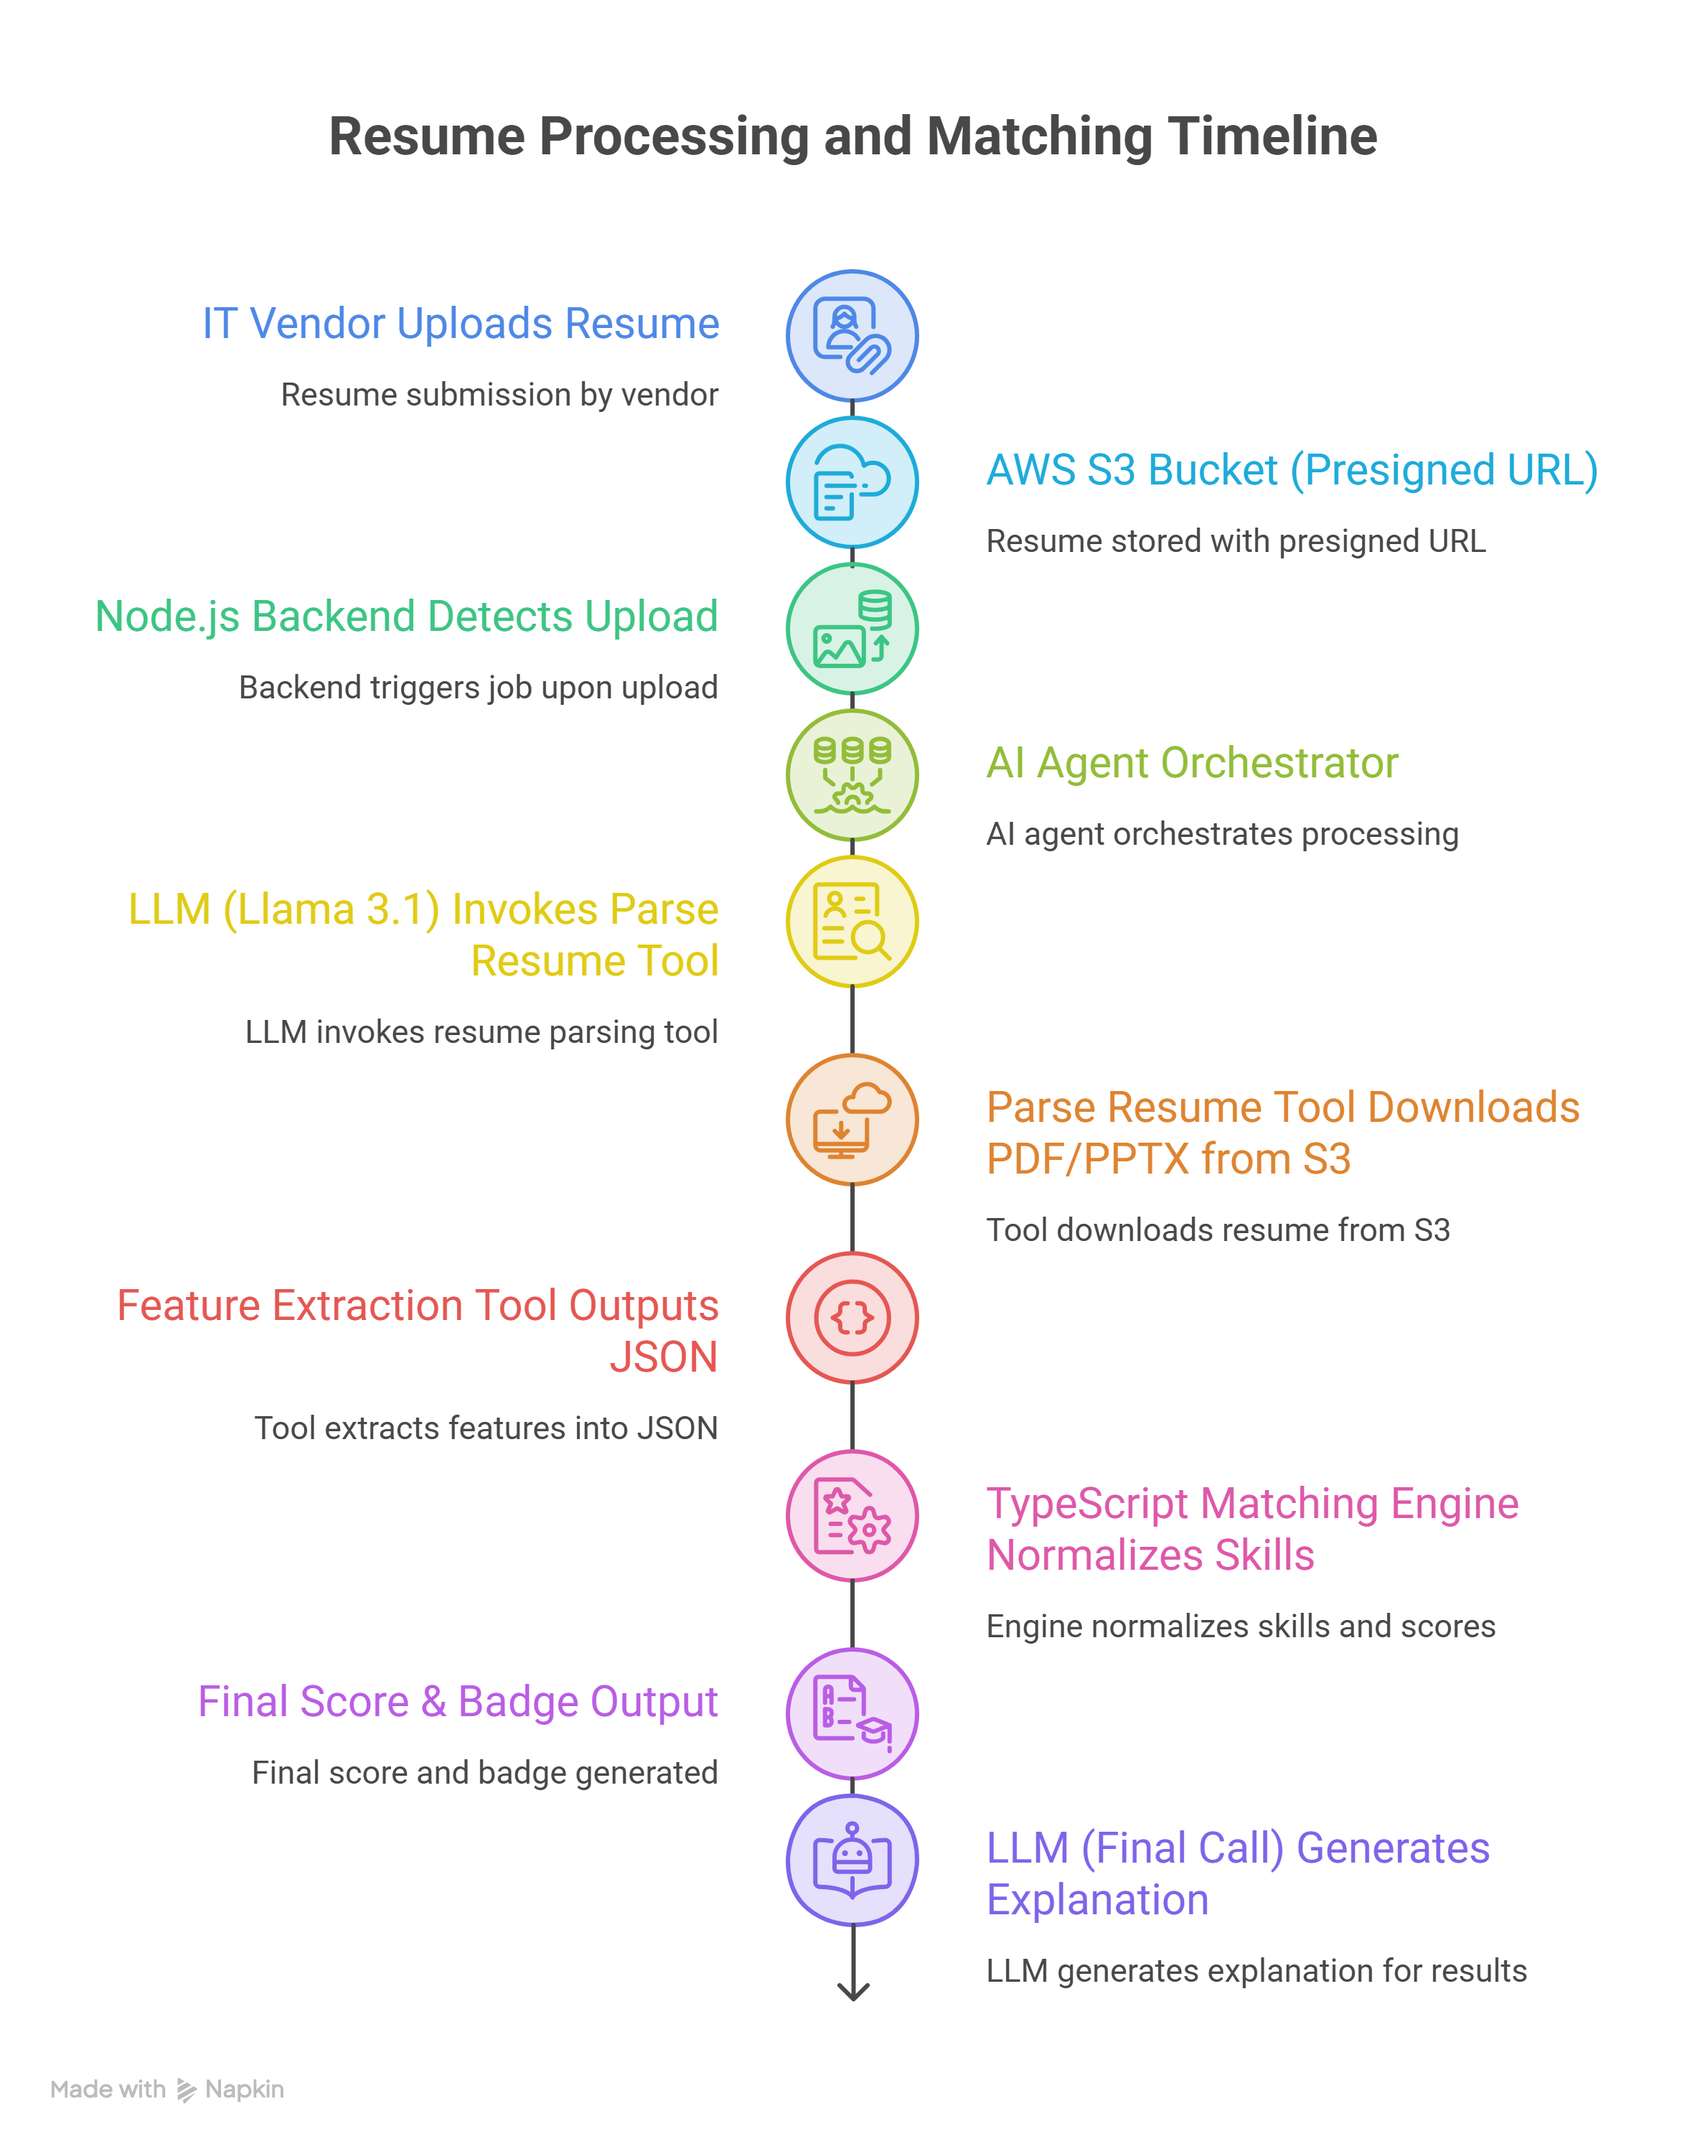
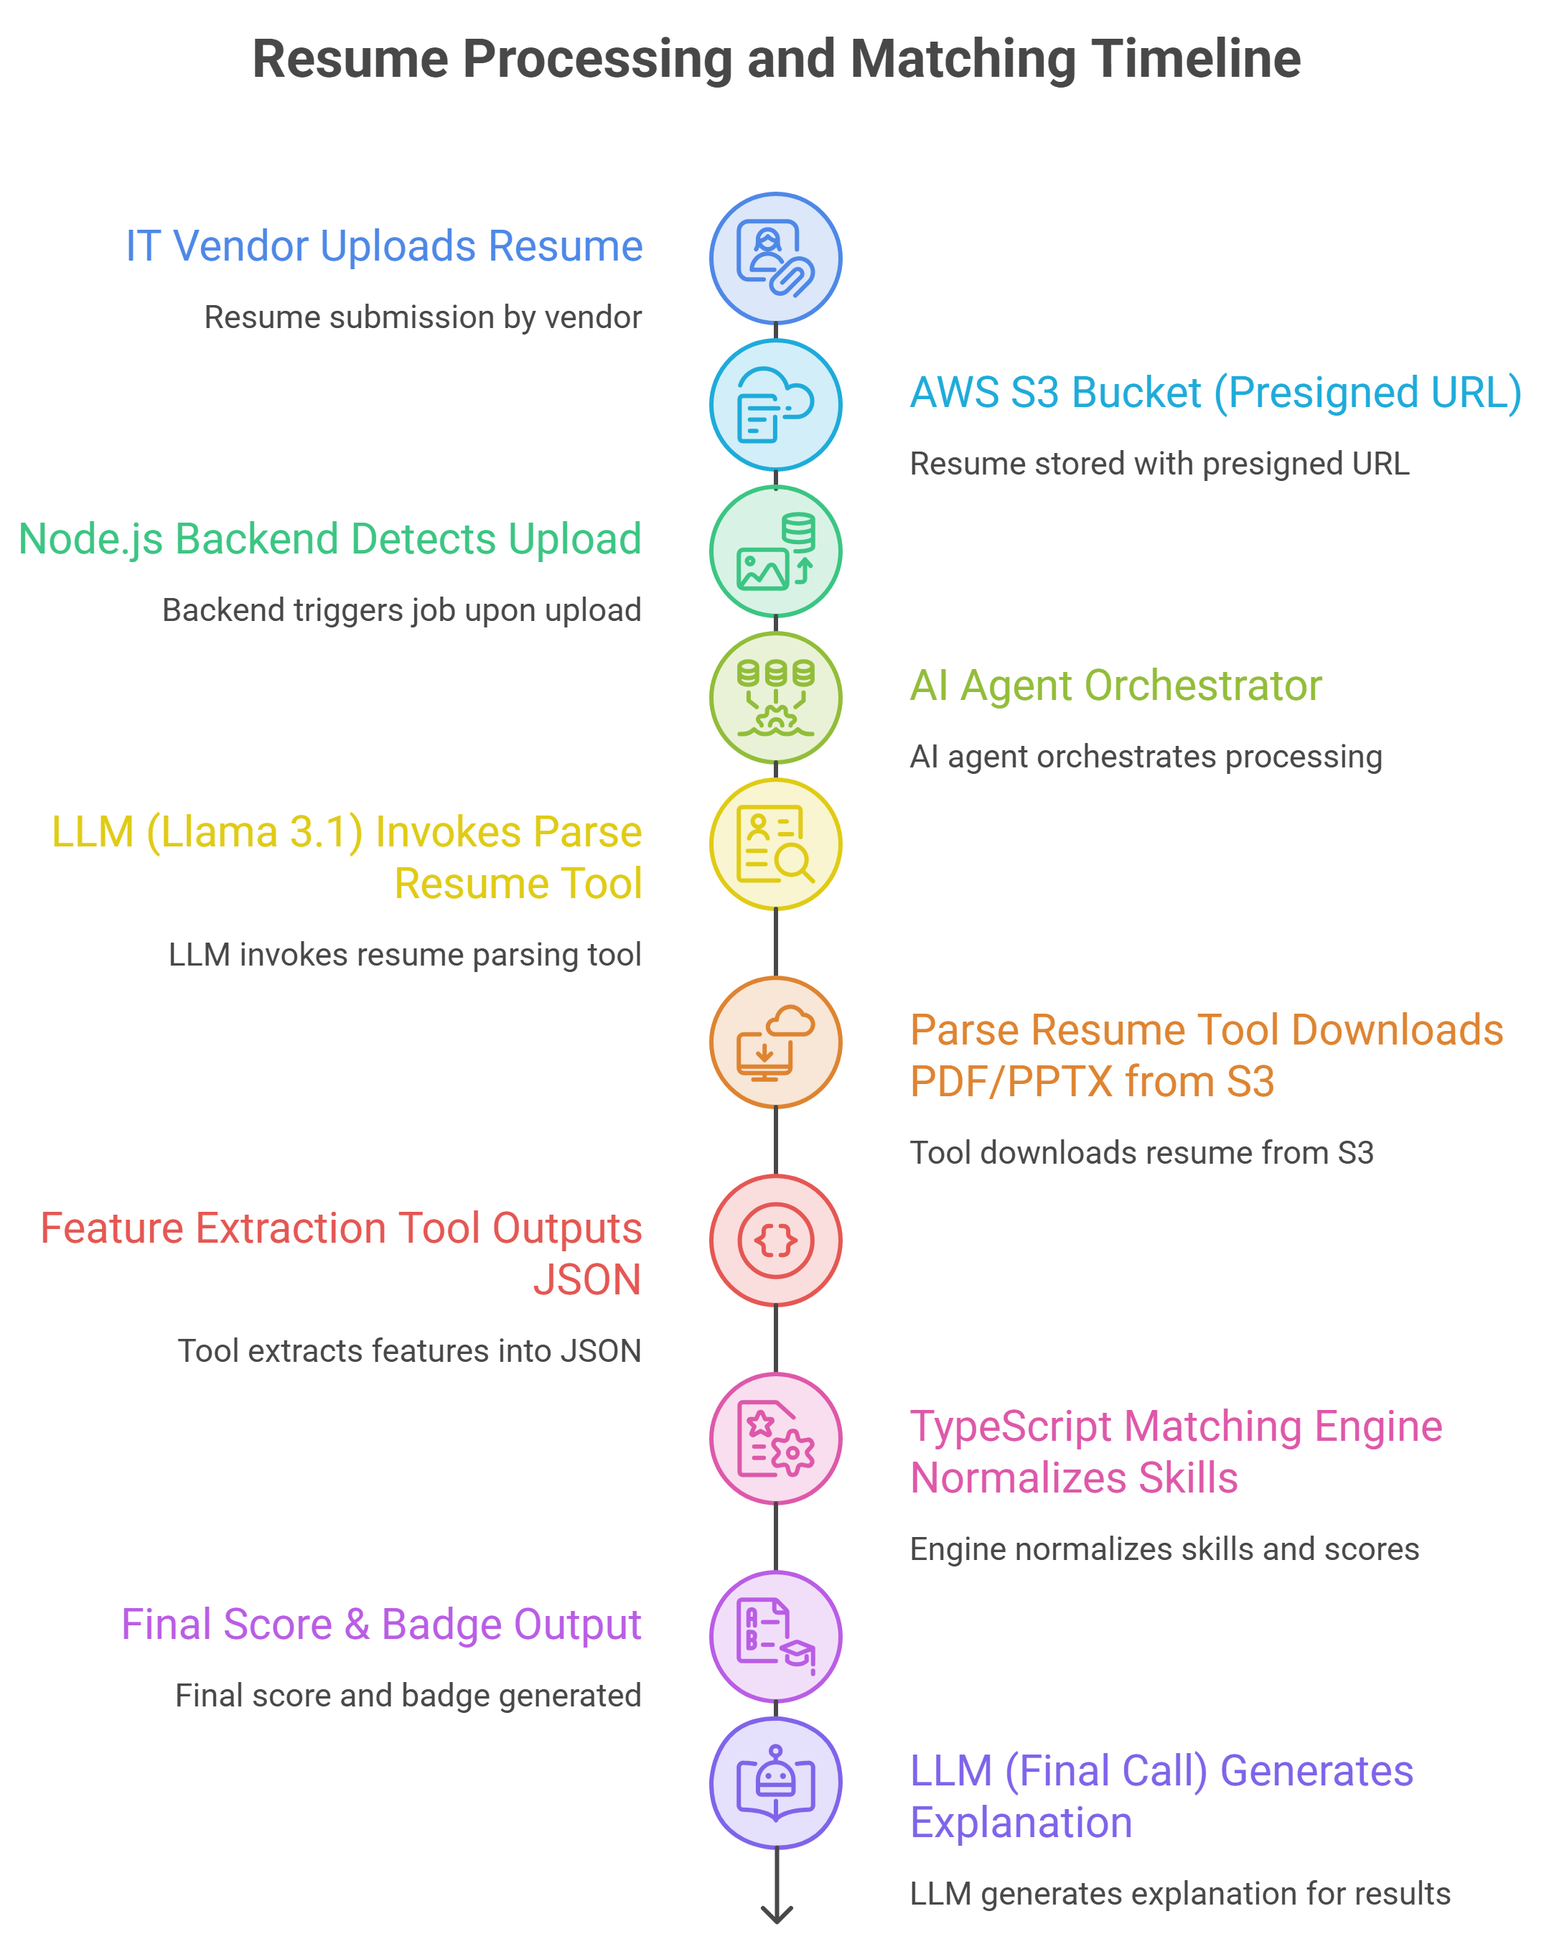
feat:updated the root readme

diff --git a/README.md b/README.md
@@ -1,4 +1,4 @@
-# Zelosify Recruit — Vendor & Hiring Manager Contract Management Module
+# Zelosify — Vendor & Hiring Manager Contract Management Module
 
 ![TypeScript](https://img.shields.io/badge/TypeScript-5.x-3178C6?style=flat&logo=typescript&logoColor=white)
 ![Node.js](https://img.shields.io/badge/Node.js-22.x-339933?style=flat&logo=nodedotjs&logoColor=white)
@@ -11,7 +11,7 @@
 ![Docker](https://img.shields.io/badge/Docker-Compose-2496ED?style=flat&logo=docker&logoColor=white)
 ![Tailwind CSS](https://img.shields.io/badge/TailwindCSS-3.x-06B6D4?style=flat&logo=tailwindcss&logoColor=white)
 ![Redux](https://img.shields.io/badge/Redux_Toolkit-2.x-764ABC?style=flat&logo=redux&logoColor=white)
-![License](https://img.shields.io/badge/License-ISC-blue?style=flat)
+
 
 A full-stack, multi-tenant recruitment platform that streamlines vendor candidate submission, AI-powered resume evaluation, and hiring manager decision workflows — all within a secure, role-based architecture.
 
@@ -25,12 +25,11 @@ A full-stack, multi-tenant recruitment platform that streamlines vendor candidat
 4. [System Architecture / Workflow](#system-architecture--workflow)
 5. [Installation & Setup](#installation--setup)
 6. [Usage](#usage)
-7. [Screenshots / Demo](#screenshots--demo)
-8. [API Integration](#api-integration)
-9. [Folder Structure](#folder-structure)
-10. [Contributing](#contributing)
-11. [License](#license)
-12. [Author / Contact](#author--contact)
+7. [API Integration](#api-integration)
+8. [Folder Structure](#folder-structure)
+9. [Contributing](#contributing)
+10. [License](#license)
+11. [Author / Contact](#author--contact)
 
 ---
 
@@ -40,7 +39,7 @@ Enterprise recruitment processes frequently suffer from fragmented tooling: vend
 
 Furthermore, implementing AI into recruitment often results in fragile "LLM Wrappers" that hallucinate scores and cannot be mathematically audited.
 
-**Zelosify Recruit** solves this by providing a unified, multi-tenant SaaS platform where:
+**Zelosify** solves this by providing a unified, multi-tenant SaaS platform where:
 - IT vendors securely submit candidate profiles (native PDF and PPTX resumes) against open job requirements via pre-signed S3 URLs.
 - A **3-Phase Agentic AI Pipeline** orchestrates LLM text extraction and maps it to a **Deterministic Scoring Engine**, ensuring candidate ranking is 100% hallucination-free and mathematically auditable.
 - Hiring managers review transparent, AI-generated reasoning, shortlist or reject profiles, and track the full hiring lifecycle.
@@ -143,12 +142,11 @@ sequenceDiagram
 ```
 
 ### End-to-end hiring workflow:
-1. **Admin** creates a job opening and assigns a hiring manager.
-2. **IT Vendor** browses open roles, uploads candidate PDFs/PPTXs to S3 via Pre-signed URLs.
-3. **Backend** queues AI recommendation jobs based on S3 object keys.
-4. **Recommendation Engine** dynamically parses resumes natively, evaluates via deterministic math, and persists reasoning.
-5. **Hiring Manager** reviews mathematically scored candidates, shortlists or rejects.
-6. All state changes are timestamped and stored for audit.
+1. **IT Vendor** browses open roles, uploads candidate PDFs/PPTXs to S3 via Pre-signed URLs.
+2. **Backend** queues AI recommendation jobs based on S3 object keys.
+3. **Recommendation Engine** dynamically parses resumes natively, evaluates via deterministic math, and persists reasoning.
+4. **Hiring Manager** reviews mathematically scored candidates, shortlists or rejects.
+
 
 ---
 
@@ -168,7 +166,7 @@ sequenceDiagram
 ### 1. Clone the Repository
 
 ```bash
-git clone https://github.com/SBK-07/Vendor-Hiring-Manager-Contract-Management-Module.git
+git clone https://github.com/AmanSingh-24/Vendor-Hiring-Manager-Contract-Management-Module.git
 cd Vendor-Hiring-Manager-Contract-Management-Module
 ```
 
@@ -190,7 +188,7 @@ cd Zelosify-Backend/Server
 npm install
 
 # Copy and configure environment variables
-cp .env.example .env
+cp .env
 
 # Run database migrations
 npm run prisma:migrate
@@ -208,9 +206,6 @@ cd Zelosify-Frontend
 
 # Install dependencies
 npm install
-
-# Copy and configure environment variables
-cp .env.example .env.local
 
 # Start development server
 npm run dev
@@ -249,17 +244,9 @@ npm start
 
 | Role | Portal Access |
 |---|---|
-| `ADMIN` | Full system administration |
 | `HIRING_MANAGER` | View openings, review/shortlist/reject profiles |
 | `IT_VENDOR` | Browse openings, upload candidate profiles |
 
----
-
-## Screenshots / Demo
-
-> Screenshots and a live demo are not yet published. Contributions and deployment links are welcome.
-
----
 
 ## API Integration
 
@@ -296,74 +283,166 @@ All API endpoints are versioned under `/api/v1/`. Authentication is enforced via
 
 ## Folder Structure
 
-```
+```text
 Vendor-Hiring-Manager-Contract-Management-Module/
 ├── Zelosify-Backend/
 │   └── Server/
+│       ├── .env
+│       ├── .gitignore
+│       ├── docker-compose.yml
+│       ├── nodemon.json
+│       ├── package-lock.json
+│       ├── package.json
+│       ├── tsconfig.json
+│       ├── vitest.config.ts
 │       ├── prisma/
-│       │   ├── schema.prisma          # Database models
-│       │   └── migrations/            # Prisma migration history
+│       │   ├── schema.prisma
+│       │   └── migrations/
 │       ├── src/
-│       │   ├── config/                # Keycloak & Environment configuration
-│       │   ├── controllers/           # Auth, Hiring, and Vendor logic
-│       │   ├── middlewares/           # JWT auth + RBAC middleware
-│       │   ├── routers/               # API route definitions
+│       │   ├── index.ts
+│       │   ├── config/
+│       │   │   ├── keycloak/
+│       │   │   │   └── index.ts
+│       │   │   └── multer/
+│       │   │       └── index.ts
+│       │   ├── controllers/
+│       │   │   ├── auth/
+│       │   │   │   ├── local/
+│       │   │   │   │   ├── localAuthController.ts
+│       │   │   │   │   ├── localLogin.ts
+│       │   │   │   │   └── localRegister.ts
+│       │   │   │   └── oidc/
+│       │   │   │       └── oidcController.ts
+│       │   │   ├── hiring/
+│       │   │   │   └── index.ts
+│       │   │   ├── vendor/
+│       │   │   │   └── index.ts
+│       │   │   └── controllers.ts
+│       │   ├── middlewares/
+│       │   │   └── auth/
+│       │   │       └── index.ts
+│       │   ├── routers/
+│       │   │   ├── auth/
+│       │   │   │   └── index.ts
+│       │   │   ├── aws/
+│       │   │   │   └── index.ts
+│       │   │   ├── hiring/
+│       │   │   │   └── index.ts
+│       │   │   ├── public/
+│       │   │   │   └── index.ts
+│       │   │   └── vendor/
+│       │   │       └── index.ts
 │       │   ├── services/
-│       │   │   ├── ai/                # Agent Orchestrator & Deterministic Engine
-│       │   │   └── vendorService.ts   # Vendor business logic
-│       │   └── index.ts               # Express server entry point
-│       ├── tests/                     # Vitest unit tests for AI logic
-│       ├── docker-compose.yml         # PostgreSQL + Keycloak local stack
-│       └── package.json
+│       │   │   ├── ai/
+│       │   │   │   ├── agent.ts
+│       │   │   │   ├── orchestrator.ts
+│       │   │   │   └── tools/
+│       │   │   │       ├── matchingEngine.test.ts
+│       │   │   │       ├── matchingEngine.ts
+│       │   │   │       └── tools.ts
+│       │   │   ├── storage/
+│       │   │   │   └── awsS3Service.ts
+│       │   │   └── vendorService.ts
+│       │   ├── helpers/
+│       │   │   └── index.ts
+│       │   ├── models/
+│       │   │   └── index.ts
+│       │   ├── scripts/
+│       │   │   └── setup.ts
+│       │   ├── types/
+│       │   │   └── index.ts
+│       │   └── utils/
+│       │       └── index.ts
+│       └── tests/
+│           └── integration/
+│               └── rbac-tenant.unit.test.ts
 │
 └── Zelosify-Frontend/
-    ├── public/                        # Static assets & architecture images
+    ├── package.json
+    ├── next.config.mjs
+    ├── postcss.config.mjs
+    ├── tailwind.config.mjs
+    ├── jsconfig.json
+    ├── .eslintrc.json
+    ├── .gitignore
+    ├── middleware.js
+    ├── components.json
+    ├── public/
+    │   ├── favicon.ico
+    │   └── assets/
+    │       └── images/
+    │           └── architecture.png
     └── src/
-        ├── app/                       # Next.js App Router 
-        │   ├── (Landing)/             # Auth pages
-        │   └── (UserDashBoard)/       # Role-based views
-        ├── components/                # Shared UI components (shadcn/ui)
-        ├── hooks/                     # Custom React hooks
-        ├── middleware.js              # Route-level auth middleware
-        ├── redux/                     # Redux Toolkit store
-        ├── styles/                    # Global CSS / Tailwind
-        └── utils/                     # Interceptors & Utilities
+        ├── app/
+        │   ├── layout.jsx
+        │   ├── page.jsx
+        │   ├── (Landing)/
+        │   │   └── layout.jsx
+        │   └── (UserDashBoard)/
+        │       ├── layout.jsx
+        │       ├── hiring-manager/
+        │       │   └── page.jsx
+        │       ├── vendor/
+        │       │   └── page.jsx
+        │       ├── business-user/
+        │       │   └── page.jsx
+        │       └── user/
+        │           └── page.jsx
+        ├── components/
+        │   ├── UI/
+        │   │   └── shadcn/
+        │   │       ├── button.jsx
+        │   │       ├── card.jsx
+        │   │       ├── input.jsx
+        │   │       ├── label.jsx
+        │   │       ├── select.jsx
+        │   │       ├── table.jsx
+        │   │       └── toast.jsx
+        │   └── UserDashboardPage/
+        │       ├── Header/
+        │       │   └── Header.jsx
+        │       └── SideBar/
+        │           └── SideBar.jsx
+        ├── contexts/
+        │   └── AuthContext.jsx
+        ├── hooks/
+        │   ├── Auth/
+        │   │   └── useAuth.js
+        │   └── UI/
+        │       └── useMobile.js
+        ├── lib/
+        │   └── utils.js
+        ├── pages/
+        │   └── LandingPage/
+        │       ├── LandingPage.jsx
+        │       └── auth/
+        │           ├── LoginPage.jsx
+        │           ├── RegisterPage.jsx
+        │           └── SetupTOTP.jsx
+        ├── redux/
+        │   ├── core/
+        │   │   ├── store.js
+        │   │   └── AllProvider.jsx
+        │   └── features/
+        │       └── Auth/
+        │           └── authSlice.js
+        ├── services/
+        │   └── api.js
+        ├── styles/
+        │   └── globals.css
+        └── utils/
+            ├── Auth/
+            │   └── roleUtils.js
+            ├── Axios/
+            │   └── AxiosInstance.js
+            └── Common/
+                └── fileUploadValidation.js
 ```
 
----
 
-## Contributing
+ Contact
 
-Contributions are welcome. Please follow the steps below:
-
-1. **Fork** the repository and create a feature branch:
-   ```bash
-   git checkout -b feature/your-feature-name
-   ```
-2. **Implement** your changes, following the existing TypeScript and ESLint conventions.
-3. **Test** your changes:
-   ```bash
-   cd Zelosify-Backend/Server && npm test
-   ```
-4. **Commit** using conventional commits.
-5. **Push** and open a pull request against `main`.
-
-### Code Style
-- **Backend:** TypeScript strict mode, ESM modules, Prisma for all DB access. No direct SQL queries.
-- **Frontend:** Next.js App Router conventions, Tailwind CSS utility classes, Redux Toolkit.
-- All secure routes must pass through RBAC middleware.
-
----
-
-## License
-
-This project is licensed under the **ISC License**.
-
----
-
-## Author / Contact
-
-**SBK-07**
-- GitHub: [@SBK-07](https://github.com/SBK-07)
+**AmanSingh/24**
+- GitHub: [@AmanSingh-24](https://github.com/AmanSingh-24)
 
 *Built as a production-oriented prototype demonstrating full-stack engineering, AI-augmented workflows, multi-tenant SaaS architecture, and enterprise-grade identity management.*
